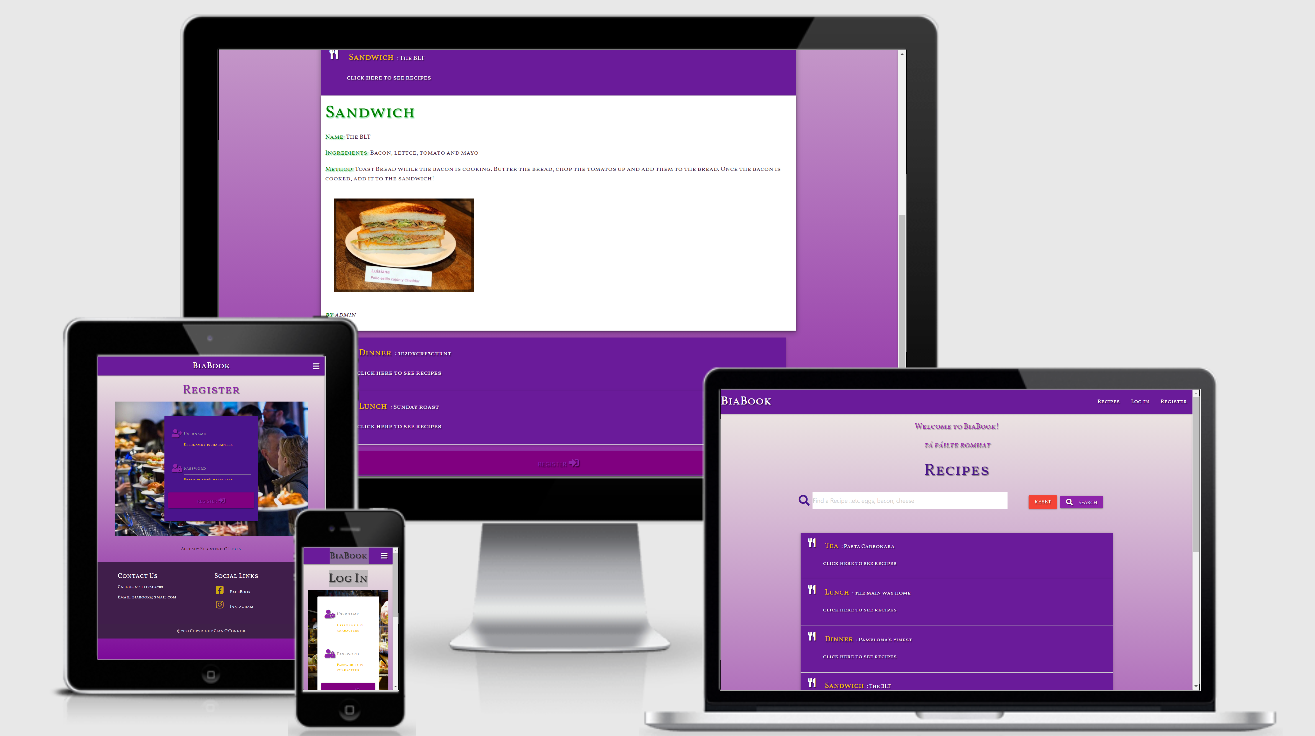
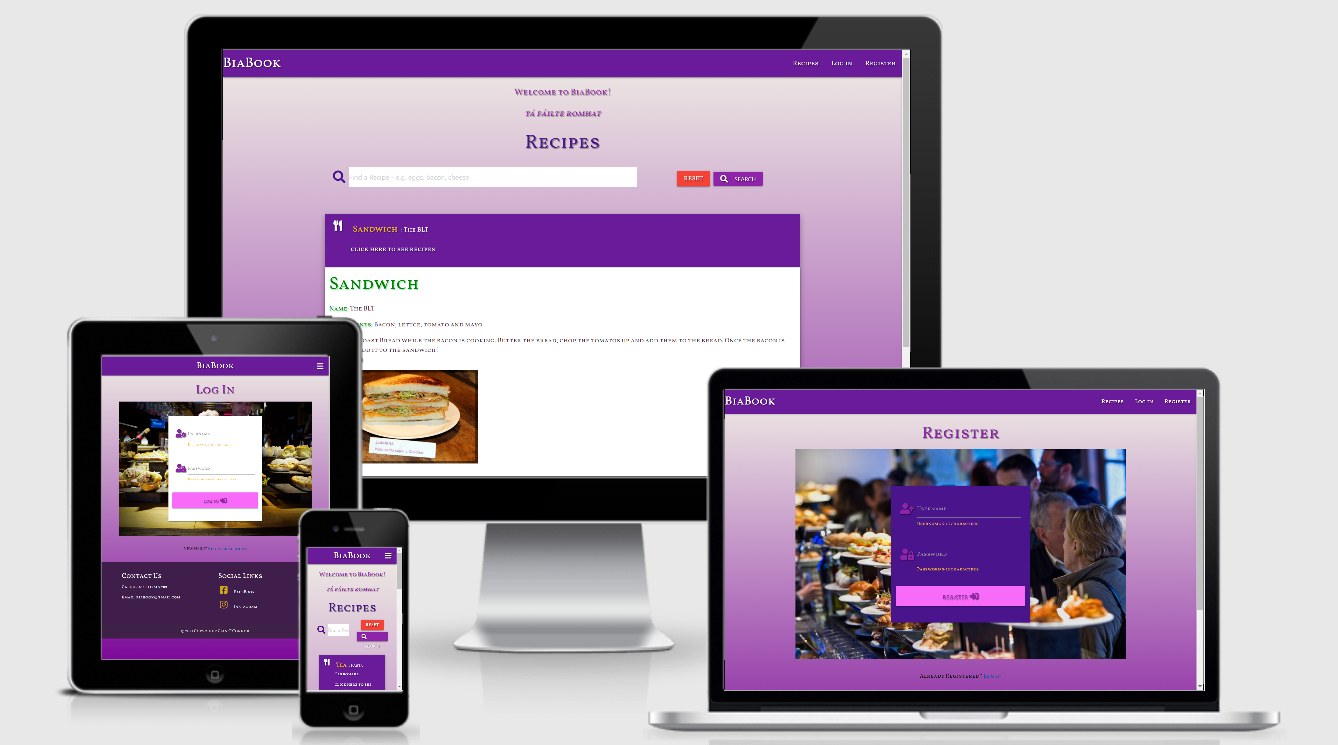
added images

diff --git a/README.md b/README.md
@@ -197,24 +197,29 @@ The Footer features:
 
 
 ### Recipes
-
+![Recipe](static/readmeImg/recipe.png)
 - This page contains:
     - a view of recipes from all the users.
     - If signed in, you can edit or delete your recipe.
     - You can open each collapsible to view the recipe contents and it's image.
 
 ### Register
+![Register](static/readmeImg/register-img.png)
 
 - This page contains a form where users may register and be redirected to their profile. Below the form is a link to login.
 
 ### Login
-
+![Login](static/readmeImg/login-img.png)
 - This page contains a form where users may login and be redirected to their profile. Below the form is a link to register.
 
 ### Logout
 
 - Clicking 'Logout' ends a user session and redirects them to the 'Login' page.
 
+### Manage page
+![Manage](static/readmeImg/manage-img.png)
+
+- This page is only for the Administrator
 
 
 # Future Features to Implement
@@ -224,6 +229,7 @@ The Footer features:
     Each image added to the recipes comes from a http: link, in the future I would love to make it so the user would be able to upload an image to the database.
 
 -   **Profile Page**
+![Profile](static/readmeImg/profile-img.png)
 
     - The Profile page currently allows users to upload an image but they are unable to save it. I would like to add this feature later.
     - Also, I would like to make a profile page similar to one you might find on [facebook](www.facebook.com) where the user could design it to their taste and 'like' and/or 'favourite' other user's recipes.
